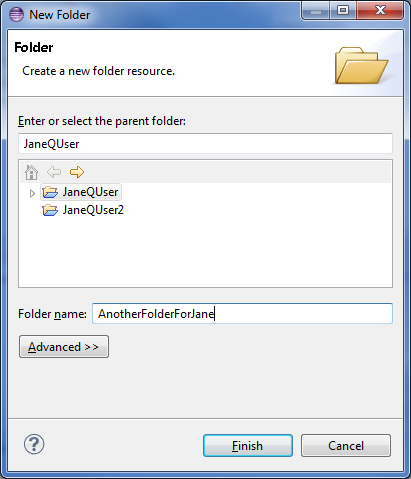
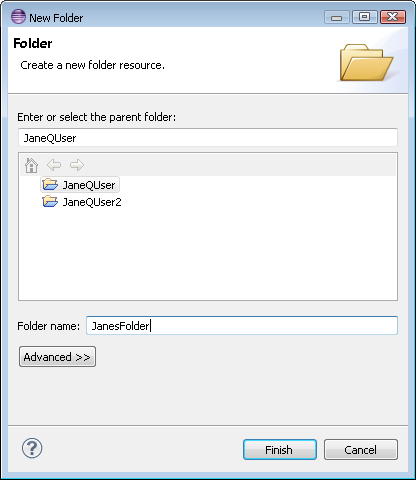
Fixed bug 392461: Tutorial instructs to select 'JanesFolder', but previous steps did not create a folder like that.

Changed region(s): [[0.0, 0.0, 1.0, 1.0]]

diff --git a/bundles/org.eclipse.platform.doc.user/gettingStarted/qs-07c.htm b/bundles/org.eclipse.platform.doc.user/gettingStarted/qs-07c.htm
@@ -1,7 +1,7 @@
 <!DOCTYPE HTML PUBLIC "-//W3C//DTD HTML 4.0 Transitional//EN"><html lang="en">
 <HEAD>
 
-<meta name="copyright" content="Copyright (c) IBM Corporation and others 2000, 2005. This page is made available under license. For full details see the LEGAL in the documentation book that contains this page." >
+<meta name="copyright" content="Copyright (c) IBM Corporation and others 2000, 2012. This page is made available under license. For full details see the LEGAL in the documentation book that contains this page." >
 
 <META HTTP-EQUIV="Content-Type" CONTENT="text/html; charset=ISO-8859-1">
 <META HTTP-EQUIV="Content-Style-Type" CONTENT="text/css">
@@ -17,7 +17,7 @@ Now that we have our project we will create a folder. We will create
 our folder using the Project Explorer view's popup menu.</P>
 <ol>
   <li> 
-    <P CLASS="Para"> Activate the Project Explorer view and select the project JaneQuser 
+    <P CLASS="Para"> Activate the Project Explorer view and select the project 'JaneQUser'
       (the first project we created in the Project Explorer view). From the view's popup 
       menu choose <b>New &gt; Folder</b>.</P>
   </li>
@@ -28,7 +28,7 @@ our folder using the Project Explorer view's popup menu.</P>
   </li>
   <li> 
     <P CLASS="Para"> In the <b> Folder name</b> field, type a unique name for 
-      your new folder. 
+      your new folder, e.g. &quot;JanesFolder&quot;. 
       Depending on the platform you are running on, some characters will not be allowed
       (for example, &quot;Jane's Folder?&quot;).</P>
     <P CLASS="Para"> <img src="../images/Image14_new_folder_wizard.png"  alt="New Folder Wizard" border="0"></P>
